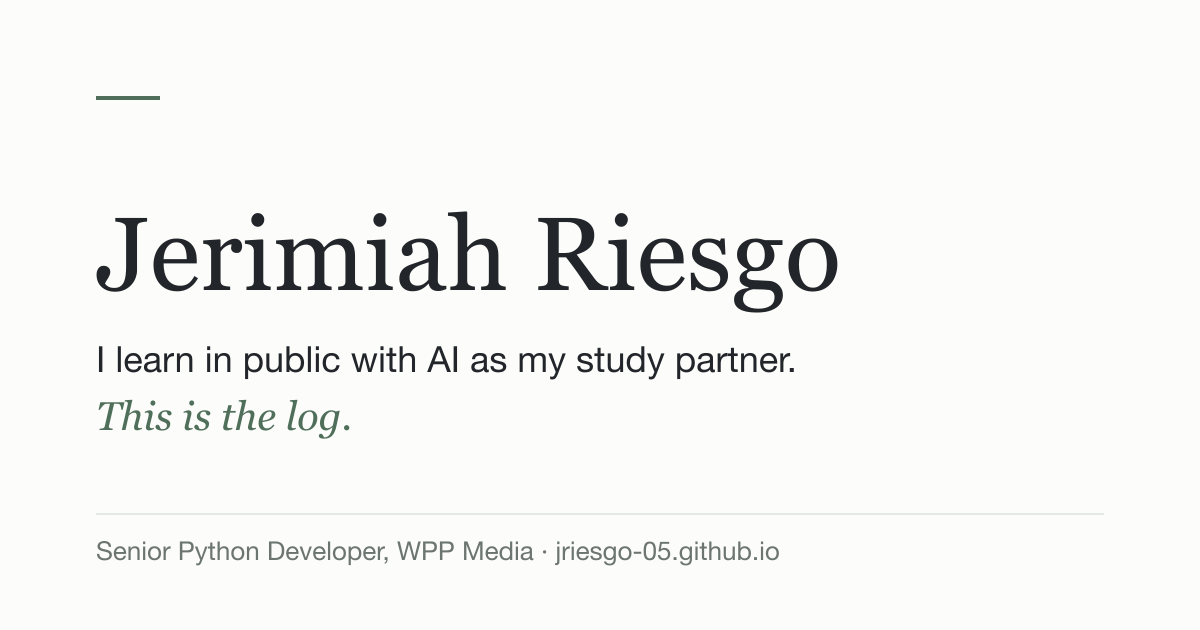
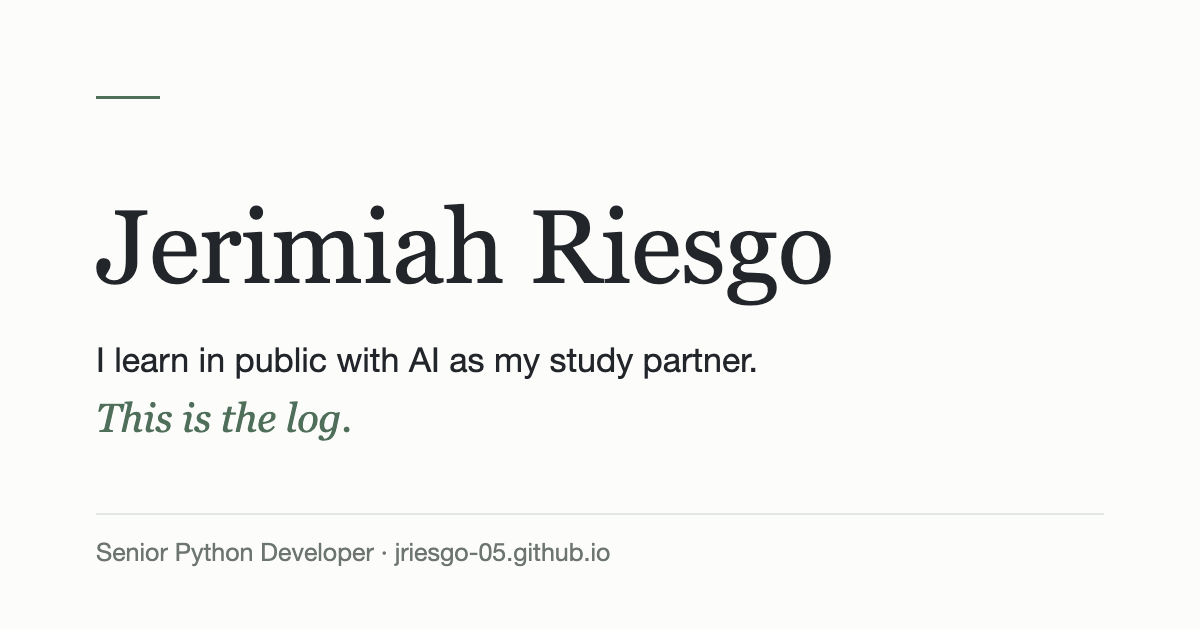
Mark WPP Media as a past role and add Mapúa
I left WPP Media in November 2026. The intro, work list, meta
description, structured data and social preview image no longer say I
work there. The work list now matches LinkedIn: Mapúa IT Assessor added,
Accenture and BizKit titles corrected, LINANG award listed.

diff --git a/src/consts.ts b/src/consts.ts
@@ -2,7 +2,7 @@
 
 export const SITE_TITLE = 'Jerimiah Riesgo';
 export const SITE_DESCRIPTION =
-	'Jerimiah Riesgo, senior Python developer at WPP Media. I learn in public with AI as my study partner: what I learn, the principle behind it, and the angle that made it click.';
+	'Jerimiah Riesgo, senior Python developer. I learn in public with AI as my study partner: what I learn, the principle behind it, and the angle that made it click.';
 
 export const GITHUB_URL = 'https://github.com/JRiesgo-05';
 export const LINKEDIN_URL = 'https://www.linkedin.com/in/jerimiah-riesgo-598070190/';
